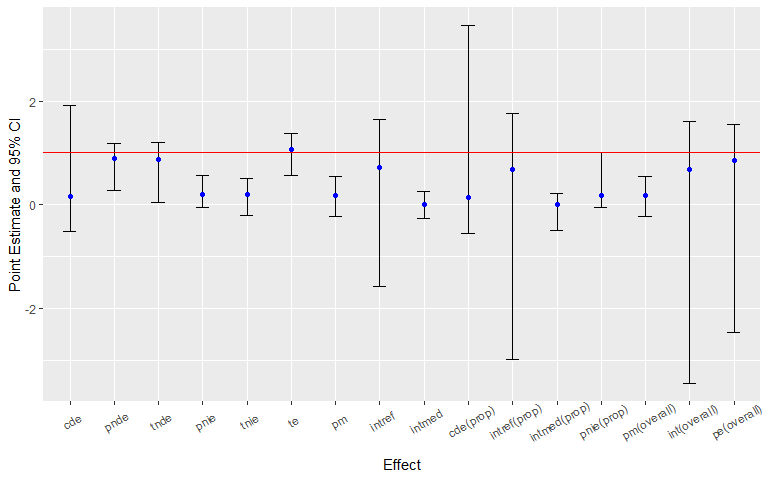
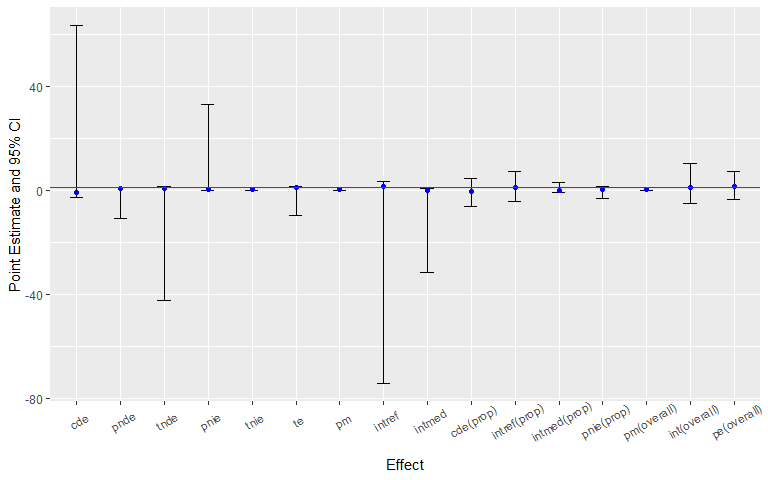
update readme

diff --git a/README.md b/README.md
@@ -1,6 +1,6 @@
 <!-- README.md is generated from README.Rmd. Please edit that file -->
 
-CMAverse <img src="man/figures/logo.png" align="right" width="200" />
+CMAverse <img src="man/figures/logo.png" align="right" width="250" />
 =====================================================================
 
 [![Project Status:
@@ -395,25 +395,23 @@ Summarizing and plotting the results:
     #> Direct counterfactual imputation estimation with 
     #>  bootstrap standard errors, percentile confidence intervals and p-values 
     #>  
-    #>               Estimate Std.error   95% CIL 95% CIU  P.val    
-    #> cde           0.157820  1.043697 -0.509488   1.915    0.8    
-    #> pnde          0.884084  0.391870  0.281059   1.175 <2e-16 ***
-    #> tnde          0.881445  0.511871  0.034728   1.196    0.4    
-    #> pnie          0.191833  0.270172 -0.055581   0.565    0.4    
-    #> tnie          0.189194  0.285642 -0.199211   0.507    0.4    
-    #> te            1.073278  0.332616  0.574208   1.377 <2e-16 ***
-    #> pm            0.176277  0.319253 -0.226791   0.541    0.4    
-    #> intref        0.726264  1.344480 -1.580572   1.641    0.4    
-    #> intmed       -0.002639  0.223692 -0.273795   0.262    0.8    
-    #> cde(prop)     0.147045  1.755498 -0.548080   3.466    0.8    
-    #> intref(prop)  0.676679  1.984259 -2.977920   1.765    0.4    
-    #> intmed(prop) -0.002459  0.294839 -0.496321   0.216    0.8    
-    #> pnie(prop)    0.178736  0.461546 -0.061783   1.010    0.4    
-    #> pm(overall)   0.176277  0.319253 -0.226791   0.541    0.4    
-    #> int(overall)  0.674219  2.205041 -3.452921   1.610    0.4    
-    #> pe(overall)   0.852955  1.755498 -2.466233   1.548    0.4    
-    #> ---
-    #> Signif. codes:  0 '***' 0.001 '**' 0.01 '*' 0.05 '.' 0.1 ' ' 1
+    #>               Estimate Std.error   95% CIL 95% CIU P.val
+    #> cde           -0.74954  31.26003  -2.69855  63.512   0.8
+    #> pnde           0.69782   5.69243 -10.77027   1.118   0.8
+    #> tnde           0.81557  21.42268 -42.45167   1.494   0.8
+    #> pnie           0.42889  16.10370  -0.14838  32.948   0.4
+    #> tnie           0.54664   0.55096  -0.10711   1.267   0.4
+    #> te             1.24446   5.32598  -9.50408   1.673   0.4
+    #> pm             0.43926   0.48642  -0.17628   0.951   0.8
+    #> intref         1.44736  36.94434 -74.28200   3.584   0.8
+    #> intmed         0.11775  15.73744 -31.68140   0.621   0.8
+    #> cde(prop)     -0.60230   4.16165  -6.09392   4.399   0.8
+    #> intref(prop)   1.16304   4.55613  -4.33725   7.158   0.8
+    #> intmed(prop)   0.09462   1.56398  -0.68669   3.008   0.4
+    #> pnie(prop)     0.34464   1.90408  -3.09782   1.616   0.8
+    #> pm(overall)    0.43926   0.48642  -0.17628   0.951   0.8
+    #> int(overall)   1.25766   6.00771  -5.01528  10.163   0.8
+    #> pe(overall)    1.60230   4.16165  -3.39922   7.094   0.8
 
     plot(est) +
       theme(axis.text.x = element_text(angle = 30, vjust = 0.8))
@@ -427,13 +425,20 @@ analysis for unmeasured confounding:
     #> Sensitivity Analysis For Unmeasured Confounding 
     #> 
     #> Evalues on the ratio scale: 
-    #>         estRR   lowerRR  upperRR Evalue.estRR Evalue.lowerRR Evalue.upperRR
-    #> cde  1.080335 0.3976073 2.935369     1.374935       1.000000             NA
-    #> pnde 1.541665 1.0592526 2.243781     2.455484       1.309779             NA
-    #> tnde 1.539674 0.9430319 2.513802     2.451223       1.000000             NA
-    #> pnie 1.098477 0.8480441 1.422865     1.427377       1.000000             NA
-    #> tnie 1.097059 0.8344933 1.442238     1.423370       1.000000             NA
-    #> te   1.691297 1.2299154 2.325757     2.772587       1.761683             NA
+    #>          estRR      lowerRR      upperRR Evalue.estRR Evalue.lowerRR
+    #> cde  0.7748469 7.106482e-10 8.448453e+08     1.902960             NA
+    #> pnde 1.2680597 2.866857e-02 5.608844e+01     1.851083              1
+    #> tnde 1.3199069 8.453793e-07 2.060796e+06     1.969712              1
+    #> pnie 1.1571549 2.556614e-05 5.237425e+04     1.583597              1
+    #> tnie 1.2044675 8.346551e-01 1.738134e+00     1.700728              1
+    #> te   1.5273368 4.407035e-02 5.293258e+01     2.424789              1
+    #>      Evalue.upperRR
+    #> cde               1
+    #> pnde             NA
+    #> tnde             NA
+    #> pnie             NA
+    #> tnie             NA
+    #> te               NA
 
 Assume that the continuous pre-exposure confounder was measured with
 error. Sensitivity analysis using regression calibration with a set of
@@ -453,23 +458,23 @@ Summarizing and plotting the results:
     #> Measurement error 1: 
     #> 0.1
     #> Measurement error correction for measurement error 1: 
-    #>               Estimate Std.error   95% CIL 95% CIU  P.val    
-    #> cde            0.15648   3.82863  -5.35497   3.795    0.8    
-    #> pnde           0.82160   0.99174  -0.08374   2.333    0.4    
-    #> tnde           0.85828   0.82589   0.50644   2.385 <2e-16 ***
-    #> pnie           0.23205   0.42894  -0.35021   0.613    0.8    
-    #> tnie           0.26873   0.35972  -0.23138   0.597    0.4    
-    #> te             1.09033   0.68715   0.47209   2.109 <2e-16 ***
-    #> pm             0.24646   0.55379  -0.09910   1.260    0.4    
-    #> intref         0.66513   2.96604  -1.55974   5.271    0.8    
-    #> intmed         0.03668   0.41372  -0.04396   0.856    0.4    
-    #> cde(prop)      0.14351   6.33758 -12.06050   1.799    0.8    
-    #> intref(prop)   0.61002   5.81960  -0.93223  11.822    0.8    
-    #> intmed(prop)   0.03364   0.94790  -0.03883   1.935    0.4    
-    #> pnie(prop)     0.21282   0.51409  -0.73301   0.531    0.8    
-    #> pm(overall)    0.24646   0.55379  -0.09910   1.260    0.4    
-    #> int(overall)   0.64367   6.75585  -0.92019  13.757    0.8    
-    #> pe(overall)    0.85649   6.33758  -0.79906  13.061    0.8    
+    #>                Estimate  Std.error    95% CIL 95% CIU  P.val    
+    #> cde           -0.750607   2.717236  -4.874211   0.935    0.8    
+    #> pnde           0.600007   0.407310  -0.183471   0.712    0.4    
+    #> tnde           0.772065   0.552929  -0.145503   1.035    0.8    
+    #> pnie           0.491369   0.446456   0.148428   1.191 <2e-16 ***
+    #> tnie           0.663426   0.637768   0.192393   1.568 <2e-16 ***
+    #> te             1.263434   0.961663   0.008923   2.143    0.4    
+    #> pm             0.525098   1.943008  -3.284767   0.761    0.4    
+    #> intref         1.350614   2.635971  -0.627730   5.356    0.8    
+    #> intmed         0.172058   0.220462  -0.116376   0.378    0.8    
+    #> cde(prop)     -0.594100  37.182657  -2.120807  74.868    0.8    
+    #> intref(prop)   1.069003  35.245261 -70.619786   2.389    0.8    
+    #> intmed(prop)   0.136183   0.581681  -1.124890   0.176    0.8    
+    #> pnie(prop)     0.388915   1.402690  -2.185063   0.973    0.4    
+    #> pm(overall)    0.525098   1.943008  -3.284767   0.761    0.4    
+    #> int(overall)   1.205185  35.806482 -71.744677   2.565    0.8    
+    #> pe(overall)    1.594100  37.182657 -73.867781   3.121    0.8    
     #> ---
     #> Signif. codes:  0 '***' 0.001 '**' 0.01 '*' 0.05 '.' 0.1 ' ' 1
     #> ----------------------------------------------------------------
@@ -478,22 +483,22 @@ Summarizing and plotting the results:
     #> 0.2
     #> Measurement error correction for measurement error 2: 
     #>              Estimate Std.error  95% CIL 95% CIU  P.val    
-    #> cde           0.15206   1.17683 -1.89738   1.047    0.8    
-    #> pnde          0.72537   0.30383  0.16490   0.916 <2e-16 ***
-    #> tnde          0.93943   0.24902  0.31661   0.905 <2e-16 ***
-    #> pnie          0.43056   0.47459 -0.07958   0.984    0.8    
-    #> tnie          0.64462   0.56698 -0.20874   0.985    0.8    
-    #> te            1.36999   0.57943  0.25960   1.546 <2e-16 ***
-    #> pm            0.47053   0.71971 -0.74129   0.838    0.8    
-    #> intref        0.57331   0.90497 -0.15674   2.062    0.4    
-    #> intmed        0.21406   0.16783 -0.12916   0.259    0.8    
-    #> cde(prop)     0.11100   1.33958 -2.17299   0.679    0.8    
-    #> intref(prop)  0.41848   1.57489 -0.09916   3.546    0.4    
-    #> intmed(prop)  0.15625   0.29901 -0.45714   0.277    0.8    
-    #> pnie(prop)    0.31428   0.44712 -0.28415   0.698    0.8    
-    #> pm(overall)   0.47053   0.71971 -0.74129   0.838    0.8    
-    #> int(overall)  0.57472   1.48749 -0.09868   3.148    0.4    
-    #> pe(overall)   0.88900   1.33958  0.32141   3.173 <2e-16 ***
+    #> cde          -0.75412   5.22537 -7.76519   4.563    0.8    
+    #> pnde          0.62702   0.30391  0.60213   1.339 <2e-16 ***
+    #> tnde          0.78123   0.32689  0.62308   1.453 <2e-16 ***
+    #> pnie          0.47492   0.26602 -0.10643   0.551    0.4    
+    #> tnie          0.62913   0.38329 -0.05255   0.901    0.4    
+    #> te            1.25615   0.42165  0.81349   1.711 <2e-16 ***
+    #> pm            0.50084   0.24072 -0.05760   0.550    0.4    
+    #> intref        1.38115   5.02381 -3.23321   8.399    0.8    
+    #> intmed        0.15421   0.14675 -0.00979   0.351    0.4    
+    #> cde(prop)    -0.60035   5.35333 -9.63146   2.672    0.8    
+    #> intref(prop)  1.09951   5.44289 -1.89004  10.405    0.8    
+    #> intmed(prop)  0.12276   0.08979 -0.01345   0.213    0.4    
+    #> pnie(prop)    0.37807   0.19949 -0.12326   0.337    0.4    
+    #> pm(overall)   0.50084   0.24072 -0.05760   0.550    0.4    
+    #> int(overall)  1.22227   5.38419 -1.81768  10.391    0.8    
+    #> pe(overall)   1.60034   5.35333 -1.67211  10.631    0.8    
     #> ---
     #> Signif. codes:  0 '***' 0.001 '**' 0.01 '*' 0.05 '.' 0.1 ' ' 1
     #> ----------------------------------------------------------------
@@ -501,23 +506,23 @@ Summarizing and plotting the results:
     #> Measurement error 3: 
     #> 0.3
     #> Measurement error correction for measurement error 3: 
-    #>                Estimate  Std.error    95% CIL 95% CIU  P.val    
-    #> cde           0.1431537  1.5983526 -1.3771712   2.370    0.8    
-    #> pnde          0.7927200  0.4416151 -0.0038698   1.021    0.4    
-    #> tnde          0.9078601  0.3867782  0.3032882   1.137 <2e-16 ***
-    #> pnie          0.3154644  0.3688073 -0.0038862   0.812    0.4    
-    #> tnie          0.4306045  0.4878730 -0.0007049   1.240    0.4    
-    #> te            1.2233245  0.3520672  0.9135701   1.782 <2e-16 ***
-    #> pm            0.3519953  0.3991242 -0.0228303   0.998    0.4    
-    #> intref        0.6495663  1.4511080 -1.8054670   1.511    0.8    
-    #> intmed        0.1151401  0.2662153 -0.2024188   0.454    0.8    
-    #> cde(prop)     0.1170202  1.3534117 -1.1387930   2.113    0.8    
-    #> intref(prop)  0.5309845  1.3600182 -1.6334465   1.648    0.8    
-    #> intmed(prop)  0.0941206  0.2229648 -0.1862224   0.367    0.8    
-    #> pnie(prop)    0.2578747  0.3183256 -0.0165466   0.726    0.4    
-    #> pm(overall)   0.3519953  0.3991242 -0.0228303   0.998    0.4    
-    #> int(overall)  0.6251051  1.4946480 -1.8103278   1.661    0.8    
-    #> pe(overall)   0.8829798  1.3534117 -1.1133394   2.139    0.4    
+    #>              Estimate Std.error  95% CIL 95% CIU  P.val    
+    #> cde          -0.76129   1.33306 -3.20424  -0.430 <2e-16 ***
+    #> pnde          0.60669   0.37375  0.23471   1.179 <2e-16 ***
+    #> tnde          0.74254   0.28941  0.80468   1.483 <2e-16 ***
+    #> pnie          0.46111   0.35651 -0.04244   0.760    0.4    
+    #> tnie          0.59697   0.56361  0.07590   1.347    0.4    
+    #> te            1.20365   0.33816  1.22784   2.086 <2e-16 ***
+    #> pm            0.49596   0.33641  0.04104   0.849    0.4    
+    #> intref        1.36798   1.14929  1.06884   3.719 <2e-16 ***
+    #> intmed        0.13585   0.26965  0.08448   0.692 <2e-16 ***
+    #> cde(prop)    -0.63248   0.86535 -2.05258  -0.252 <2e-16 ***
+    #> intref(prop)  1.13652   0.83032  0.62796   2.382 <2e-16 ***
+    #> intmed(prop)  0.11287   0.14903  0.06456   0.389 <2e-16 ***
+    #> pnie(prop)    0.38309   0.22556 -0.04363   0.484    0.4    
+    #> pm(overall)   0.49596   0.33641  0.04104   0.849    0.4    
+    #> int(overall)  1.24939   0.87982  0.80807   2.771 <2e-16 ***
+    #> pe(overall)   1.63248   0.86535  1.25234   3.053 <2e-16 ***
     #> ---
     #> Signif. codes:  0 '***' 0.001 '**' 0.01 '*' 0.05 '.' 0.1 ' ' 1
     #> ----------------------------------------------------------------
@@ -550,22 +555,22 @@ Summarizing and plotting the results:
     #> 
     #> Measurement error correction for measurement error 1: 
     #>               Estimate Std.error   95% CIL 95% CIU  P.val    
-    #> cde           -0.22215   5.19387 -11.89332   0.428    0.4    
-    #> pnde           0.61920   1.85699  -2.70154   1.573    0.4    
-    #> tnde           0.96955   0.69523   0.07939   1.677    0.4    
-    #> pnie           0.28946   1.36567  -2.72336   0.425    0.4    
-    #> tnie           0.63982   0.95929  -0.66396   1.564    0.8    
-    #> te             1.25902   1.39427  -1.30747   2.075    0.8    
-    #> pm             0.50819   1.54726  -1.05597   2.740    0.8    
-    #> intref         0.84135   3.36210   1.14548   9.211 <2e-16 ***
-    #> intmed         0.35035   2.09423  -0.49497   4.216    0.8    
-    #> cde(prop)     -0.17645   7.05190  -3.71012  12.428    0.8    
-    #> intref(prop)   0.66826   7.82695 -14.00734   4.385    0.8    
-    #> intmed(prop)   0.27828   1.98955  -2.93998   2.049    0.8    
-    #> pnie(prop)     0.22991   0.95491  -0.28435   1.966    0.8    
-    #> pm(overall)    0.50819   1.54726  -1.05597   2.740    0.8    
-    #> int(overall)   0.94654   7.79527 -12.34392   4.969    0.8    
-    #> pe(overall)    1.17645   7.05190 -11.42807   4.710    0.8    
+    #> cde            1.66250   5.38504  -9.96214   3.529    0.4    
+    #> pnde           0.66439   1.03384  -0.82488   1.551    0.4    
+    #> tnde           0.71316   0.88486   0.26286   2.479 <2e-16 ***
+    #> pnie           0.68170   0.45187  -0.59191   0.451    0.4    
+    #> tnie           0.73047   0.24284   0.47805   1.016 <2e-16 ***
+    #> te             1.39486   1.16927  -0.28677   2.522    0.4    
+    #> pm             0.52369   0.66993  -0.94646   0.489    0.4    
+    #> intref        -0.99811   4.68259  -2.14747   9.219    0.4    
+    #> intmed         0.04877   0.41312   0.26672   1.161 <2e-16 ***
+    #> cde(prop)      1.19188  10.05963  -1.99766  19.802    0.8    
+    #> intref(prop)  -0.71557   9.39357 -17.85534   2.593    0.8    
+    #> intmed(prop)   0.03496   1.21130  -2.19237   0.372    0.4    
+    #> pnie(prop)     0.48873   0.55790   0.01861   1.269 <2e-16 ***
+    #> pm(overall)    0.52369   0.66993  -0.94646   0.489    0.4    
+    #> int(overall)  -0.68060  10.59821 -20.04771   2.965    0.8    
+    #> pe(overall)   -0.19188  10.05963 -18.80181   2.998    0.8    
     #> ---
     #> Signif. codes:  0 '***' 0.001 '**' 0.01 '*' 0.05 '.' 0.1 ' ' 1
     #> ----------------------------------------------------------------
@@ -576,23 +581,23 @@ Summarizing and plotting the results:
     #> [2,]  0.1  0.9
     #> 
     #> Measurement error correction for measurement error 2: 
-    #>               Estimate Std.error   95% CIL 95% CIU  P.val    
-    #> cde            0.19647   5.49040  -8.47836   4.038    0.8    
-    #> pnde           1.15026   1.84218  -1.39287   2.626    0.8    
-    #> tnde           1.20758   1.26473  -0.54455   2.343    0.4    
-    #> pnie           0.23829   0.60821  -0.93480   0.473    0.4    
-    #> tnie           0.29561   0.32129  -0.04016   0.699    0.4    
-    #> te             1.44587   1.57229  -0.69384   2.618    0.8    
-    #> pm             0.20445   0.64083  -1.14324   0.174    0.8    
-    #> intref         0.95379   3.75741  -1.41187   7.085    0.8    
-    #> intmed         0.05732   0.87174  -0.37901   1.634    0.8    
-    #> cde(prop)      0.13588   5.14102   1.16042  12.085 <2e-16 ***
-    #> intref(prop)   0.65967   4.56784 -10.07289  -0.247 <2e-16 ***
-    #> intmed(prop)   0.03964   1.04315  -2.30945   0.099    0.4    
-    #> pnie(prop)     0.16481   0.67300  -0.25386   1.360    0.4    
-    #> pm(overall)    0.20445   0.64083  -1.14324   0.174    0.8    
-    #> int(overall)   0.69931   5.58770 -12.38233  -0.293 <2e-16 ***
-    #> pe(overall)    0.86412   5.14102 -11.08497  -0.160 <2e-16 ***
+    #>              Estimate Std.error  95% CIL 95% CIU  P.val    
+    #> cde          -2.76063   3.55151 -6.38787   1.841    0.8    
+    #> pnde          1.16821   0.84776 -0.04832   2.053    0.4    
+    #> tnde          1.13573   1.60192 -0.19131   3.772    0.4    
+    #> pnie          0.18603   0.51782 -0.56827   0.725    0.8    
+    #> tnie          0.15355   0.46162  0.11120   1.181 <2e-16 ***
+    #> te            1.32176   1.13656  0.51115   3.203 <2e-16 ***
+    #> pm            0.11617   0.47594  0.14018   1.162 <2e-16 ***
+    #> intref        3.92884   4.13804 -1.34167   8.364    0.8    
+    #> intmed       -0.03248   0.82938 -0.15466   1.719    0.8    
+    #> cde(prop)    -2.08860   2.93955 -4.57456   2.521    0.8    
+    #> intref(prop)  2.97243   3.26657 -2.65981   5.411    0.8    
+    #> intmed(prop) -0.02457   0.33753 -0.30968   0.525    0.8    
+    #> pnie(prop)    0.14075   0.73407 -0.17485   1.449    0.8    
+    #> pm(overall)   0.11617   0.47594  0.14018   1.162 <2e-16 ***
+    #> int(overall)  2.94786   3.49111 -2.96949   5.547    0.8    
+    #> pe(overall)   3.08860   2.93955 -1.52053   5.575    0.8    
     #> ---
     #> Signif. codes:  0 '***' 0.001 '**' 0.01 '*' 0.05 '.' 0.1 ' ' 1
     #> ----------------------------------------------------------------
